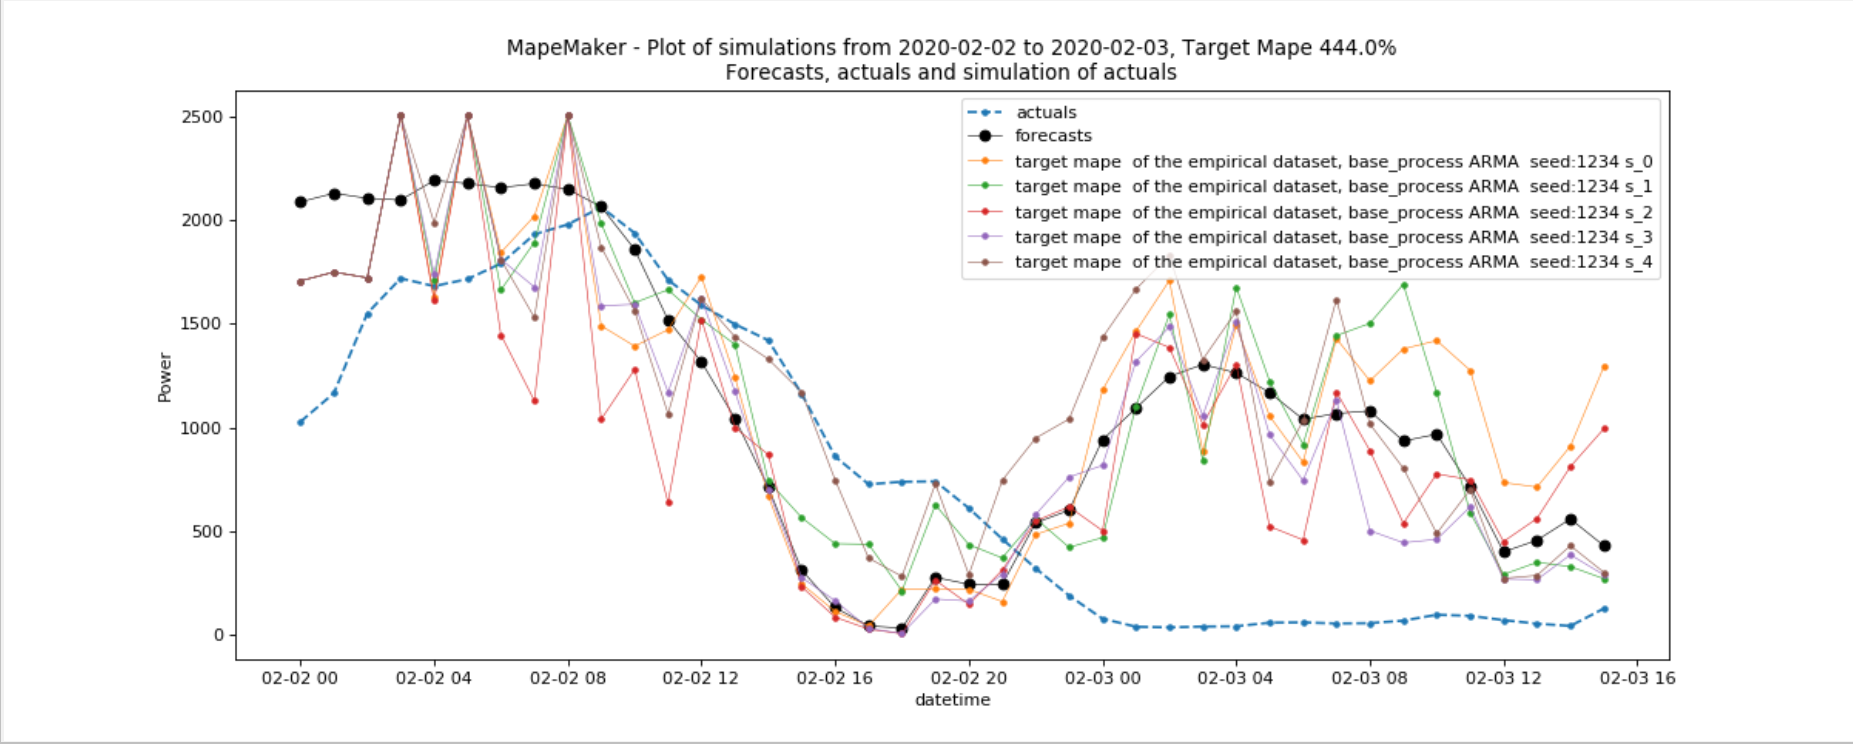
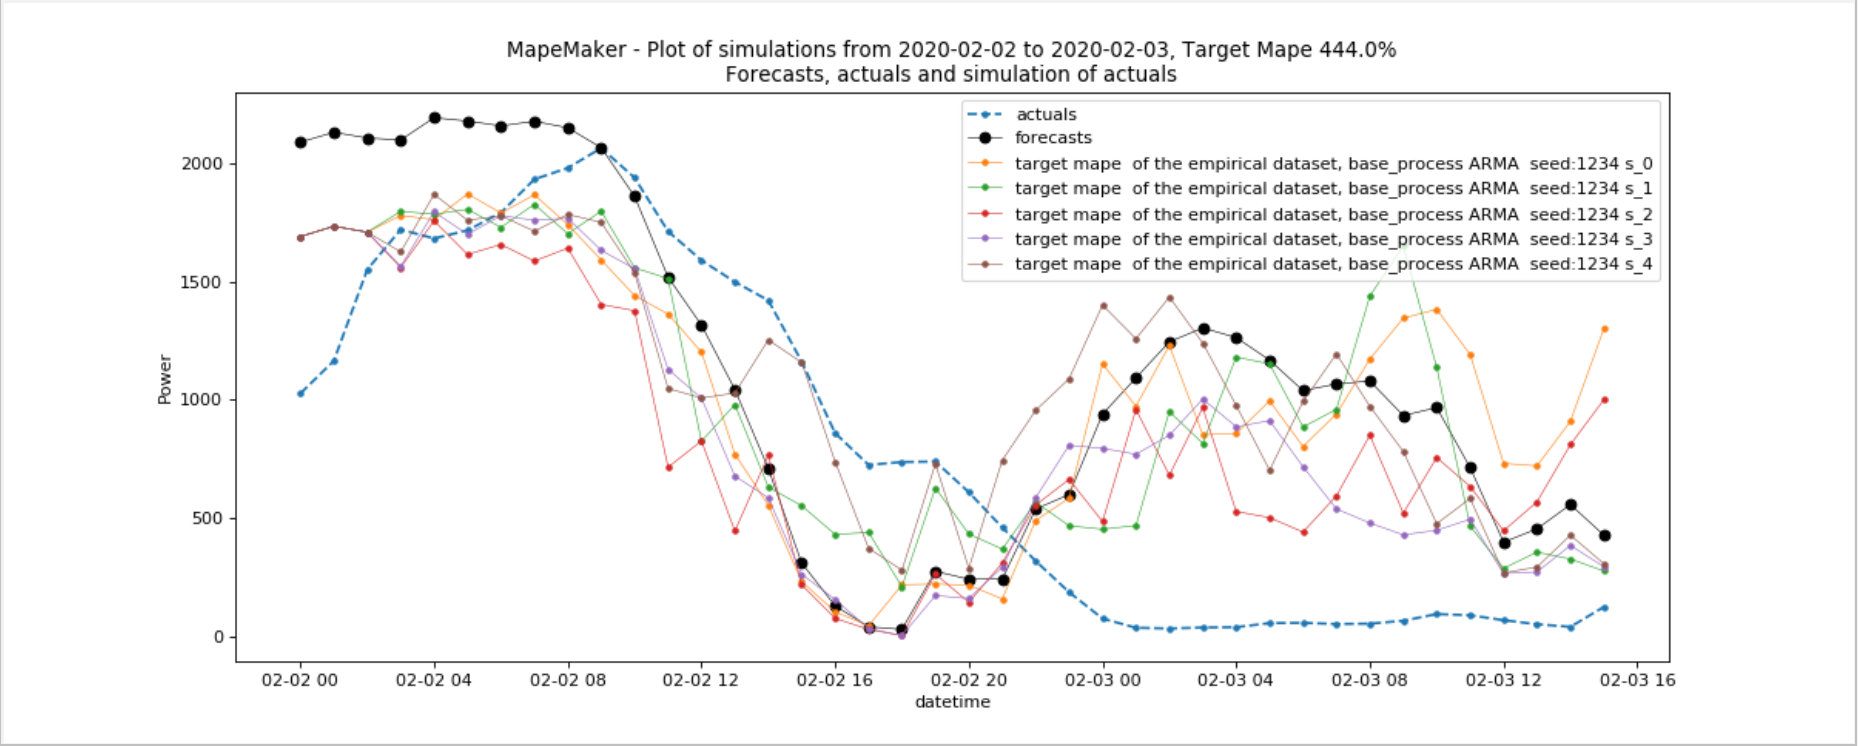
update the documentations

diff --git a/test/quick_CAISO_wind_tests.py b/test/quick_CAISO_wind_tests.py
@@ -80,11 +80,11 @@ class TestUM(unittest.TestCase):
         """
         print("Running ", str(self.id()).split('.')[2])
         # here is the command :
-        # python -m mape_maker "mape_maker/samples/wind_total_forecast_actual_070113_063015.csv" -st "actuals" -n 5 -bp "ARMA" -o "wind_actuals_ARMA_1" -is "2014-6-1 00:00:00" -ie "2014-6-30 00:00:00" -sd "2014-6-27 01:00:00" -ed "2014-6-29 00:00:00" -s 1234
+        # python -m mape_maker "mape_maker/samples/wind_total_forecast_actual_070113_063015.csv" -st "actuals" -n 2 -bp "ARMA" -o "wind_actuals_ARMA_1" -is "2014-6-1 00:00:00" -ie "2014-6-30 00:00:00" -sd "2014-6-27 01:00:00" -ed "2014-6-29 00:00:00" -s 1234
         parm_dict = self._basic_dict()
         parm_dict["input_file"] = self.wind_data
         parm_dict["simulated_timeseries"] = "actuals"
-        parm_dict["number_simulations"] = 5
+        parm_dict["number_simulations"] = 2
         parm_dict["base-process"] = "ARMA"
         parm_dict["output_dir"] = "wind_actuals_ARMA_1"
         parm_dict["simulation_start_dt"] = datetime(year=2014, month=6, day=27, hour=1, minute=0, second=0)
@@ -102,11 +102,11 @@ class TestUM(unittest.TestCase):
     def test_wind_actuals_iid_with_dates(self):
         print("Running ", str(self.id()).split('.')[2])
         # here is the command :
-        # python -m mape_maker "mape_maker/samples/wind_total_forecast_actual_070113_063015.csv" -st "actuals" -n 3 -bp "iid" -o "wind_actuals_iid" -is "2014-7-1 00:00:00" -ie "2014-8-1 00:00:00" -sd "2014-7-2 00:00:00" -ed "2014-7-31 00:00:00" -s 1234
+        # python -m mape_maker "mape_maker/samples/wind_total_forecast_actual_070113_063015.csv" -st "actuals" -n 2 -bp "iid" -o "wind_actuals_iid" -is "2014-7-1 00:00:00" -ie "2014-8-1 00:00:00" -sd "2014-7-2 00:00:00" -ed "2014-7-31 00:00:00" -s 1234
         parm_dict = self._basic_dict()
         parm_dict["input_file"] = self.wind_data
         parm_dict["simulated_timeseries"] = "actuals"
-        parm_dict["number_simulations"] = 3
+        parm_dict["number_simulations"] = 2
         parm_dict["base-process"] = "iid"
         parm_dict["input_start_dt"] = datetime(year=2014, month=7, day=1, hour=0, minute=0, second=0)
         parm_dict["input_end_dt"] = datetime(year=2014, month=8, day=1, hour=0, minute=0, second=0)
@@ -128,11 +128,11 @@ class TestUM(unittest.TestCase):
     def test_wind_actuals_ARMA(self):
         print("Running ", str(self.id()).split('.')[2])
         # here is the command :
-        # python -m mape_maker "mape_maker/samples/wind_total_forecast_actual_070113_063015.csv" -st "actuals" -n 3 -bp "ARMA" -o "wind_actuals_ARMA_2" -s 1234
+        # python -m mape_maker "mape_maker/samples/wind_total_forecast_actual_070113_063015.csv" -st "actuals" -n 2 -bp "ARMA" -o "wind_actuals_ARMA_2" -s 1234
         parm_dict = self._basic_dict()
         parm_dict["input_file"] = self.wind_data
         parm_dict["simulated_timeseries"] = "actuals"
-        parm_dict["number_simulations"] = 3
+        parm_dict["number_simulations"] = 2
         parm_dict["base-process"] = "ARMA"
         parm_dict["output_dir"] = "wind_actuals_ARMA"
         parm_list = list(parm_dict.values())
@@ -149,11 +149,11 @@ class TestUM(unittest.TestCase):
     def test_wind_forecasts_iid_with_dates(self):
         print("Running ", str(self.id()).split('.')[2])
         # here is the command :
-        # python -m mape_maker "mape_maker/samples/wind_total_forecast_actual_070113_063015.csv" -st "forecasts" -n 5 -bp "iid" --output_dir "wind_forecasts_iid" -is "2014-6-1 00:00:00" -ie "2014-6-30 00:00:00" -sd "2014-6-2 01:00:00" -ed "2014-6-30 00:00:00" --target_mape 30 -s 1234
+        # python -m mape_maker "mape_maker/samples/wind_total_forecast_actual_070113_063015.csv" -st "forecasts" -n 2 -bp "iid" --output_dir "wind_forecasts_iid" -is "2014-6-1 00:00:00" -ie "2014-6-30 00:00:00" -sd "2014-6-2 01:00:00" -ed "2014-6-30 00:00:00" --target_mape 30 -s 1234
         parm_dict = self._basic_dict()
         parm_dict["input_file"] = self.wind_data
         parm_dict["simulated_timeseries"] = "forecasts"
-        parm_dict["number_simulations"] = 5
+        parm_dict["number_simulations"] = 2
         parm_dict["base-process"] = "iid"
         parm_dict["output_dir"] = "wind_forecasts_iid"
         parm_dict["simulation_start_dt"] = datetime(year=2014, month=6, day=2, hour=1, minute=0, second=0)
@@ -180,11 +180,11 @@ class TestUM(unittest.TestCase):
         """
         print("Running ", str(self.id()).split('.')[2])
         # here is the command :
-        # python -m mape_maker "mape_maker/samples/wind_total_forecast_actual_070113_063015.csv" -st "forecasts" -n 5 -bp "ARMA" -o "wind_forecasts_ARMA" -is "2014-6-1 00:00:00" -ie "2014-6-30 00:00:00" -sd "2014-6-2 01:00:00" -ed "2014-6-29 00:00:00" -t 30 -s 1234
+        # python -m mape_maker "mape_maker/samples/wind_total_forecast_actual_070113_063015.csv" -st "forecasts" -n 2 -bp "ARMA" -o "wind_forecasts_ARMA" -is "2014-6-1 00:00:00" -ie "2014-6-30 00:00:00" -sd "2014-6-2 01:00:00" -ed "2014-6-29 00:00:00" -t 30 -s 1234
         parm_dict = self._basic_dict()
         parm_dict["input_file"] = self.wind_data
         parm_dict["simulated_timeseries"] = "forecasts"
-        parm_dict["number_simulations"] = 5
+        parm_dict["number_simulations"] = 2
         parm_dict["base-process"] = "ARMA"
         parm_dict["output_dir"] = "wind_forecasts_ARMA"
         parm_dict["simulation_start_dt"] = datetime(year=2014, month=6, day=2, hour=1, minute=0, second=0)

diff --git a/test/rts_wind_test.py b/test/rts_wind_test.py
@@ -67,7 +67,7 @@ class TestUM(unittest.TestCase):
     def test_commmand(self):
         """
         here is the command :
-        python -m mape_maker "mape_maker/samples/rts_gmlc/WIND_forecasts_actuals.csv" -st "actuals" -n 5 -bp "iid" -o "wind_forecasts_actuals" -s 1234
+        python -m mape_maker "mape_maker/samples/rts_gmlc/WIND_forecasts_actuals.csv" -st "actuals" -s 1234 -n 5 -bp "ARMA" -o "wind_forecasts_actuals" -is "2020-2-1 00:00:00" -ie "2020-5-1 00:00:00" -sd "2020-2-2 00:00:00" -ed "2020-3-2 00:00:00"
         :return:
         """
         print("Running ", str(self.id()).split('.')[2])
@@ -75,8 +75,13 @@ class TestUM(unittest.TestCase):
         parm_dict["input_file"] = self.wind_data
         parm_dict["simulated_timeseries"] = "actuals"
         parm_dict["number_simulations"] = 5
-        parm_dict["base-process"] = "iid"
+        parm_dict["base-process"] = "ARMA"
         parm_dict["output_dir"] = "wind_forecasts_actuals"
+        parm_dict["seed"] = 1234
+        parm_dict["simulation_start_dt"] = datetime(year=2020, month=2, day=2, hour=0, minute=0, second=0)
+        parm_dict["simulation_end_dt"] = datetime(year=2020, month=3, day=2, hour=0, minute=0, second=0)
+        parm_dict["input_start_dt"] = datetime(year=2020, month=2, day=1, hour=0, minute=0, second=0)
+        parm_dict["input_end_dt"] = datetime(year=2020, month=5, day=1, hour=0, minute=0, second=0)
         parm_list = list(parm_dict.values())
         mapemain.main_func(*parm_list)
 

diff --git a/documentation/sections/wind_example.rst b/documentation/sections/wind_example.rst
@@ -9,11 +9,11 @@ The following command will take the data from *wind_total_forecast_actual_070113
 and launch the simulations with n=3 and s=1234 from forecasts to actuals using an iid Base Process. It will
 compute the distribution from 2014-7-1 00:00:00 to 2014-8-1 00:00:00 and simulate from
 2014-7-2 00:00:00 to 2014-7-31 00:00:00. Finally, it will return a plot of simulations, and create
-an output dir called "wind_actuals_iid_with_dates" in your current working directory.
+an output dir called "wind_actuals_iid" in your current working directory.
 
 ::
 
-    python -m mape_maker "mape_maker/samples/wind_total_forecast_actual_070113_063015.csv" -st "actuals" -n 3 -bp "iid" -o "wind_actuals_iid_with_dates" -is "2014-7-1 00:00:00" -ie "2014-8-1 00:00:00" -sd "2014-7-2 00:00:00" -ed "2014-7-31 00:00:00" -s 1234
+    python -m mape_maker "mape_maker/samples/wind_total_forecast_actual_070113_063015.csv" -st "actuals" -n 3 -bp "iid" -o "wind_actuals_iid" -is "2014-7-1 00:00:00" -ie "2014-8-1 00:00:00" -sd "2014-7-2 00:00:00" -ed "2014-7-31 00:00:00" -s 1234
 
 * **"mape_maker/samples/wind_total_forecast_actual_070113_063015.csv"**:
  The csv file containing forecasts and actuals for specified datetimes.
@@ -34,12 +34,12 @@ an output dir called "wind_actuals_iid_with_dates" in your current working direc
  The end date of the simulation is "2014-7-31 00:00:00"
 * **-s 1234**:
  Set the seed as "1234", so it won't randomly choose a number as the seed.
- * **-o "wind_actuals_iid_with_dates"**:
- Create an output directory called "wind_actuals_iid_with_dates", in which will store the simulation output file.
+ * **-o "wind_actuals_iid"**:
+ Create an output directory called "wind_actuals_iid", in which will store the simulation output file.
 
 After running the command line, you should see a similar plot like this:
 
-.. figure::  ../_static/wind_actuals_iid.png
+.. figure::  ../_static/wind_actuals_iid_with_dates.png
    :align:   center
 |
 |
@@ -48,13 +48,13 @@ After running the command line, you should see a similar plot like this:
 ---------------------------------------------
 
 The following command will take the data from *wind_total_forecast_actual_070113_063015.csv*
-, and launch the simulations with n=3 and seed=1234 from forecasts to actuals using an IID
+, and launch the simulations with n=3 and seed=1234 from forecasts to actuals using an ARMA
 Base Process. It will simulate all the dates in the input files. Finally, it will return a
-plot of simulations, and create an output dir called "wind_actuals_iid".
+plot of simulations, and create an output dir called "wind_actuals_ARMA".
 
 ::
 
-    python -m mape_maker "mape_maker/samples/wind_total_forecast_actual_070113_063015.csv" -st "actuals" -n 3 -bp "ARMA" -o "wind_actuals_iid" -t 15 -s 1234
+    python -m mape_maker "mape_maker/samples/wind_total_forecast_actual_070113_063015.csv" -st "actuals" -n 3 -bp "ARMA" -o "wind_actuals_ARMA" -s 1234
 
 * **"mape_maker/samples/wind_total_forecast_actual_070113_063015.csv"**:
  The csv file containing forecasts and actuals for specified datetimes.
@@ -63,15 +63,15 @@ plot of simulations, and create an output dir called "wind_actuals_iid".
  according to the "forecasts" data in the input file.
 * **-n 3**:
  The number of simulations that we want to create is "3". This will create three simulation columns in the output file.
-* **-bp "iid"**:
- Use "iid" as the base process. The default base process is "ARMA".
-* **-o "wind_actuals_iid"**:
- Create an output directory called "wind_actuals_iid", in which will store the simulation output file.
+* **-bp "ARMA"**:
+ Use "ARMA" as the base process.
+* **-o "wind_actuals_ARMA"**:
+ Create an output directory called "wind_actuals_ARMA", in which will store the simulation output file.
 * **-s 1234**:
  Set the seed as "1234", so it won't randomly choose a number as the seed.
 
 After running the command line, you should see a similar plot like this:
 
-.. figure::  ../_static/wind_actuals_iid.png
+.. figure::  ../_static/wind_actuals_ARMA_without_dates.png
    :align:   center
 

diff --git a/documentation/sections/unittest_example.rst b/documentation/sections/unittest_example.rst
@@ -7,27 +7,34 @@ Unittest Examples for Wind and Load
 
 -----------------------------------
 
-**CAISO_wind_quick_test.py**
+**fast_CAISO_wind_tests.py**
 
-* This test is used to see whether the above command lines will run successfully at once.
-* You can run this unittest by typing "python CAISO_wind_quick_test.py" in your terminal.
-
+* This test will run very fast because it only includes one sample command line.
 |
-**CAISO_wind_slow_test.py**
+|
+**quick_CAISO_wind_tests.py**
+
+* This test is used to check whether some sample command lines will run successfully at once.
+|
+|
+**slow_CAISO_wind_tests.py**
 
 * The difference between CAISO_wind_quick_test.py and CAISO_wind_slow_test.py is that the second one will compare the first simulation column and the second simulation column, then show the differences.
 |
 |
-
 **Load Unittest Examples**
 
 ---------------------------------------------
+**fast_load_tests.py**
 
+* This test will run very fast because it only includes one sample command line.
+|
+|
 **load_quick_test.py**
 
-* This test is used to see whether the above command lines will run successfully at once.
-* You can run this unittest by typing "python load_quick_test.py" in your terminal.
-
+* This test is used to check whether some sample command lines will run successfully at once.
+|
+|
 **load_slow_test.py**
 
 * The difference between load_quick_test.py and load_slow_test.py is that the second one will compare the first simulation column and the second simulation column, then show the differences.
@@ -40,12 +47,11 @@ Unittest Examples for RTS WIND and BUS
 
 ---------------------------------------
 
-**RTS_wind_test.py**
+**rts_wind_test.py**
 
-* This test is used to see whether the above command lines for CAISO Wind example will run successfully at once.
-* You can run this unittest by typing "python RTS_wind_test.py" in your terminal.
-
+* This test is used to see whether the sample command line for RTS Wind example will run successfully.
+|
+|
 **Bus_220_Load_test.py**
 
-* This test is used to see whether the above command lines for Load example will run successfully at once.
-* You can run this unittest by typing "python Bus_220_Load_test.py" in your terminal.
+* This test is used to see whether the sample command line for Load example will run successfully.

diff --git a/documentation/sections/infeasible_example.rst b/documentation/sections/infeasible_example.rst
@@ -12,8 +12,7 @@ Example 1
 
 ::
 
-python -m mape_maker "mape_maker/samples/wind_total_forecast_actual_070113_063015.csv" -st "actuals" -n 5 -bp "ARMA" -o "wind_actuals_ARMA_1" -is "2014-6-1 00:00:00" -ie "2014-6-30 00:00:00" -sd "2014-6-27 01:00:00" -ed "2014-6-29 00:00:00" -s 1234
-
+python mape_maker "mape_maker/samples/wind_total_forecast_actual_070113_063015.csv" -st "actuals" -n 5 -bp "ARMA" -sd "2014-6-17 01:00:00" -ed "2014-6-30 00:00:00" -s 1234
 
 This command line will fail with an error, showing the following output:
 Determination of the Plausability score and the r_tilde_max
@@ -45,14 +44,6 @@ This error occurs when the program is trying to estimate the maximum target mean
 It fails because the shape parameters(alpha and beta) are negative values.
 .. note:: If there have not been any good beta parameters, the program will terminate, but otherwise, it will continue.
 
-Example 3
-^^^^^^^^^^
-
-::
-
-python -m mape_maker "mape_maker/samples/wind_total_forecast_actual_070113_063015.csv" -st "actuals" -n 3 -bp "iid" -is "2014-7-1 00:00:00" -ie "2014-8-1 00:00:00" -sd "2014-7-2 00:00:00" -ed "2014-7-31 00:00:00" -s 1234
-
-This command line will fail with an error, showing the following output:
 
 
 

diff --git a/documentation/sections/rts_example.rst b/documentation/sections/rts_example.rst
@@ -49,7 +49,7 @@ and create an output dir called "wind_forecasts_actuals".
 
 ::
 
-    python -m mape_maker "mape_maker/samples/rts_gmlc/WIND_forecasts_actuals.csv" -st "actuals" -s 1234 -n 5 -bp "ARMA" -o "wind_forecasts_actuals" -s 1234 -is "2020-2-1 00:00:00" -ie "2020-5-1 00:00:00" -sd "2020-2-2 00:00:00" -ed "2020-3-2 00:00:00"
+    python -m mape_maker "mape_maker/samples/rts_gmlc/WIND_forecasts_actuals.csv" -st "actuals" -s 1234 -n 5 -bp "ARMA" -o "wind_forecasts_actuals" -is "2020-2-1 00:00:00" -ie "2020-5-1 00:00:00" -sd "2020-2-2 00:00:00" -ed "2020-3-2 00:00:00"
 
 * **"mape_maker/samples/rts_gmlc/WIND_forecasts_actuals.csv"**:
  The csv file containing forecasts and actuals for specified datetimes.
